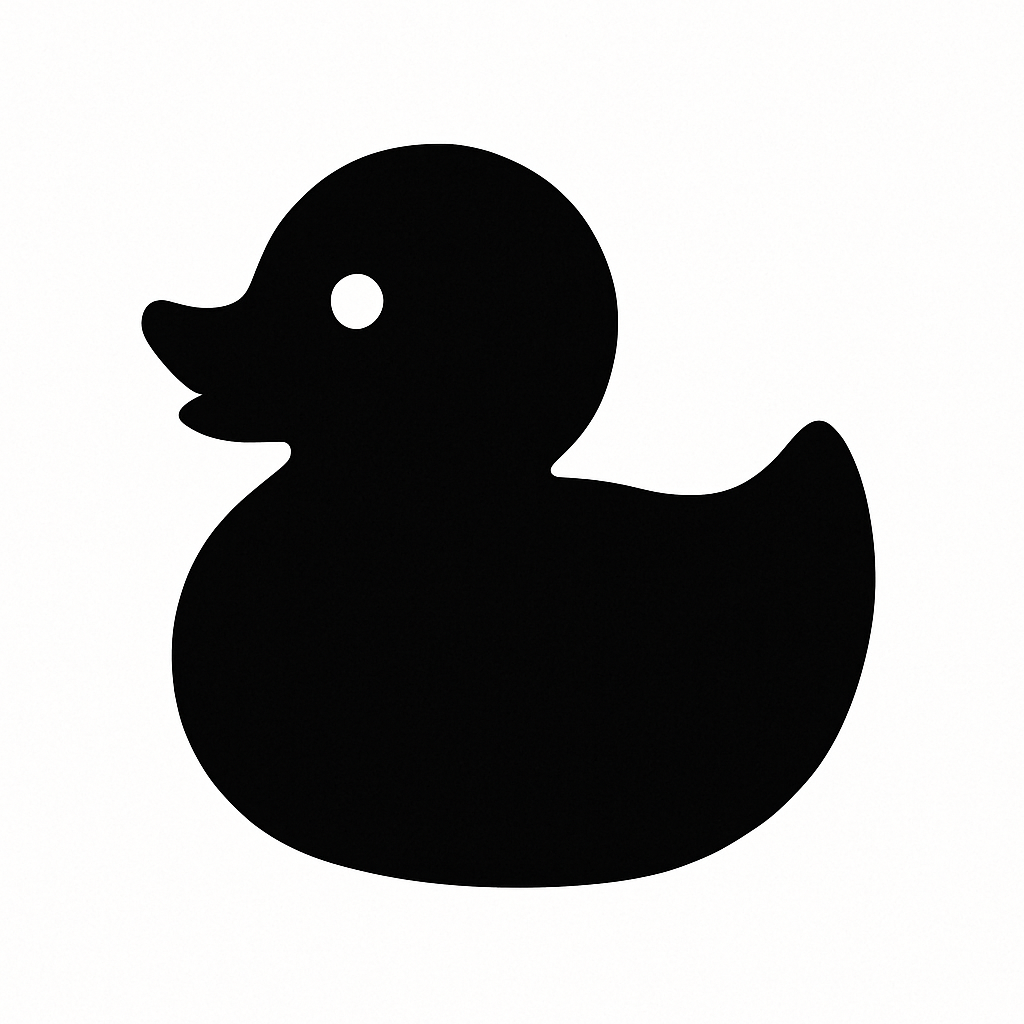
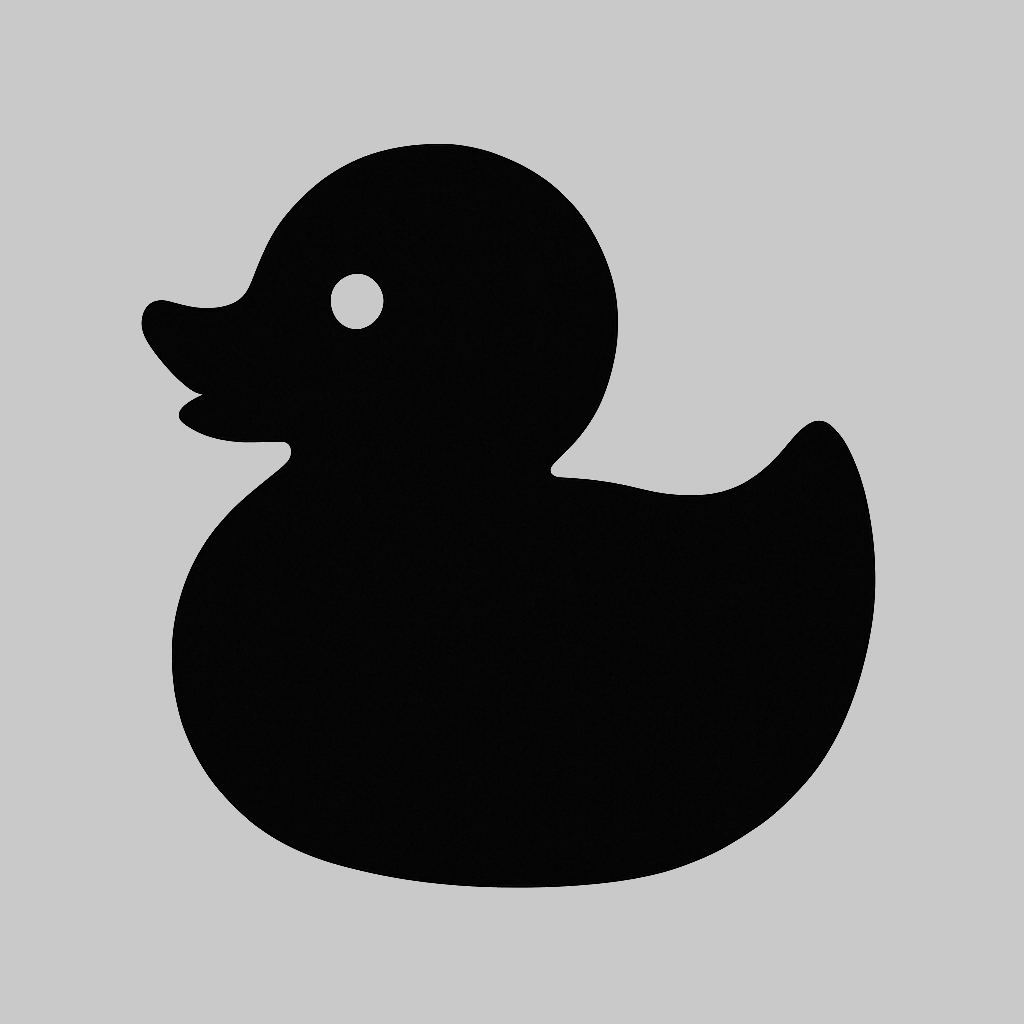
slight changes to bgcolor

diff --git a/src/components/Navbar.jsx b/src/components/Navbar.jsx
@@ -3,7 +3,7 @@ import "./Navbar.css"; // Import the CSS file for styling
 
 export default function Navbar() {
     const [duckImage, setDuckImage] = useState("../src/assets/blackDuck.png"); // Initial image
-    const [navbarBg, setNavbarBg] = useState("white"); // Initial navbar background color
+    const [navbarBg, setNavbarBg] = useState("#C9C9C9"); // Initial navbar background color
     const [navbarTextColor, setNavbarTextColor] = useState("black"); // Initial navbar text color
 
     // Combined function to toggle the duck image, navbar background, and page theme
@@ -31,7 +31,7 @@ export default function Navbar() {
                 // Change to black duck and revert theme
                 document.body.classList.add("light-theme");
                 document.body.classList.remove("dark-theme");
-                document.body.style.backgroundColor = "white"; // Change #626161 background to white
+                document.body.style.backgroundColor = "#C9C9C9"; // Change #626161 background to white
                 document.body.style.color = "black"; // Change text color to black
 
                 // Update all sections with black back to #626161
@@ -42,7 +42,7 @@ export default function Navbar() {
                     }
                 });
 
-                setNavbarBg("white"); // Change navbar background to white
+                setNavbarBg("#C9C9C9"); // Change navbar background to white
                 setNavbarTextColor("black"); // Change navbar text color to black
                 return "../src/assets/blackDuck.png";
             }
@@ -53,9 +53,9 @@ export default function Navbar() {
     useEffect(() => {
         document.body.classList.add("light-theme");
         document.body.classList.remove("dark-theme");
-        document.body.style.backgroundColor = "white";
+        document.body.style.backgroundColor = "#C9C9C9";
         document.body.style.color = "black";
-        setNavbarBg("white");
+        setNavbarBg("#C9C9C9");
         setNavbarTextColor("black");
         setDuckImage("../src/assets/blackDuck.png");
     }, []); // Empty dependency array ensures this runs only once on page load
